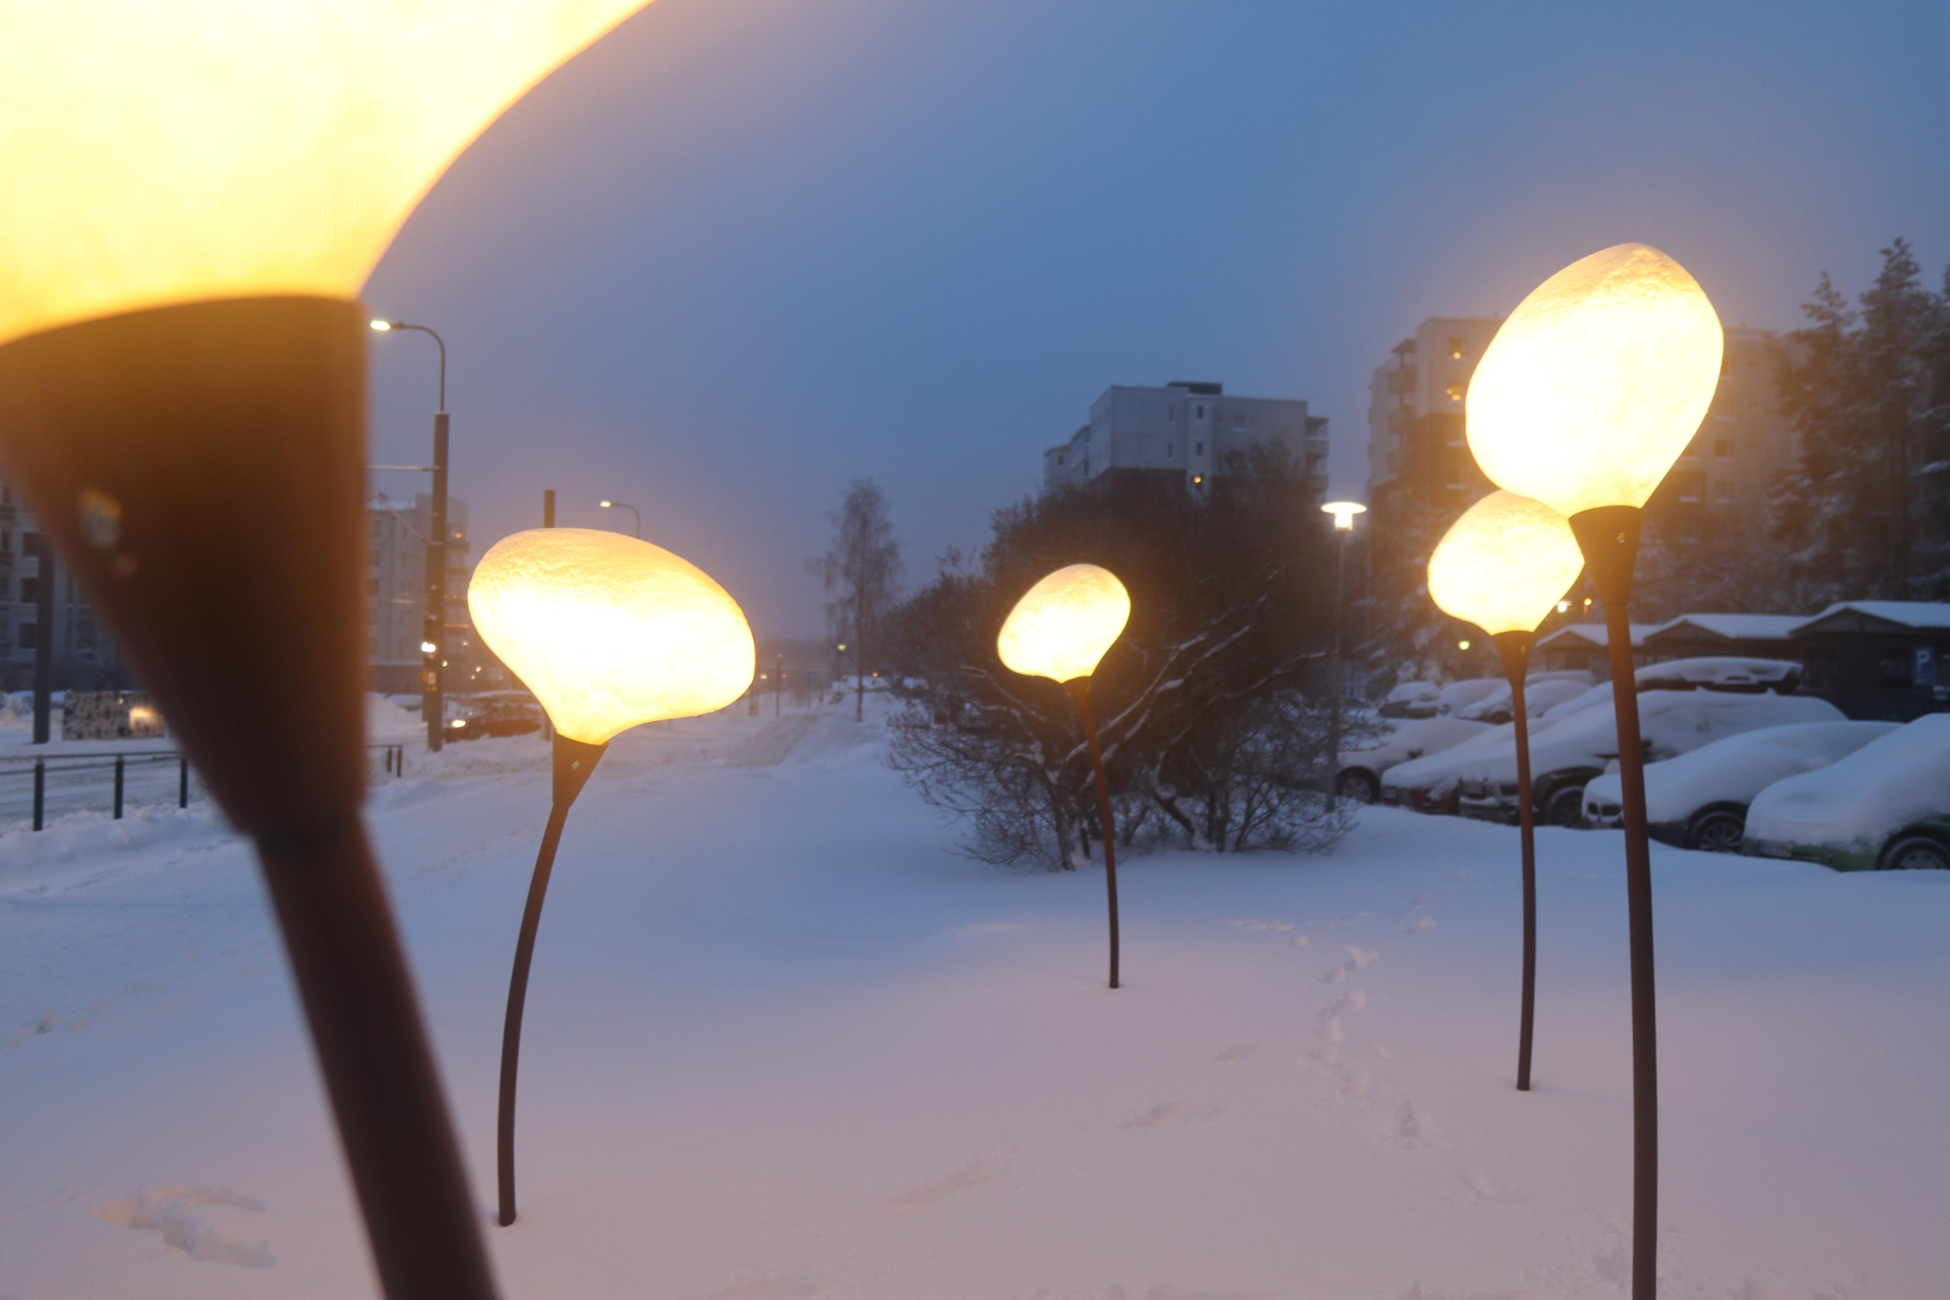
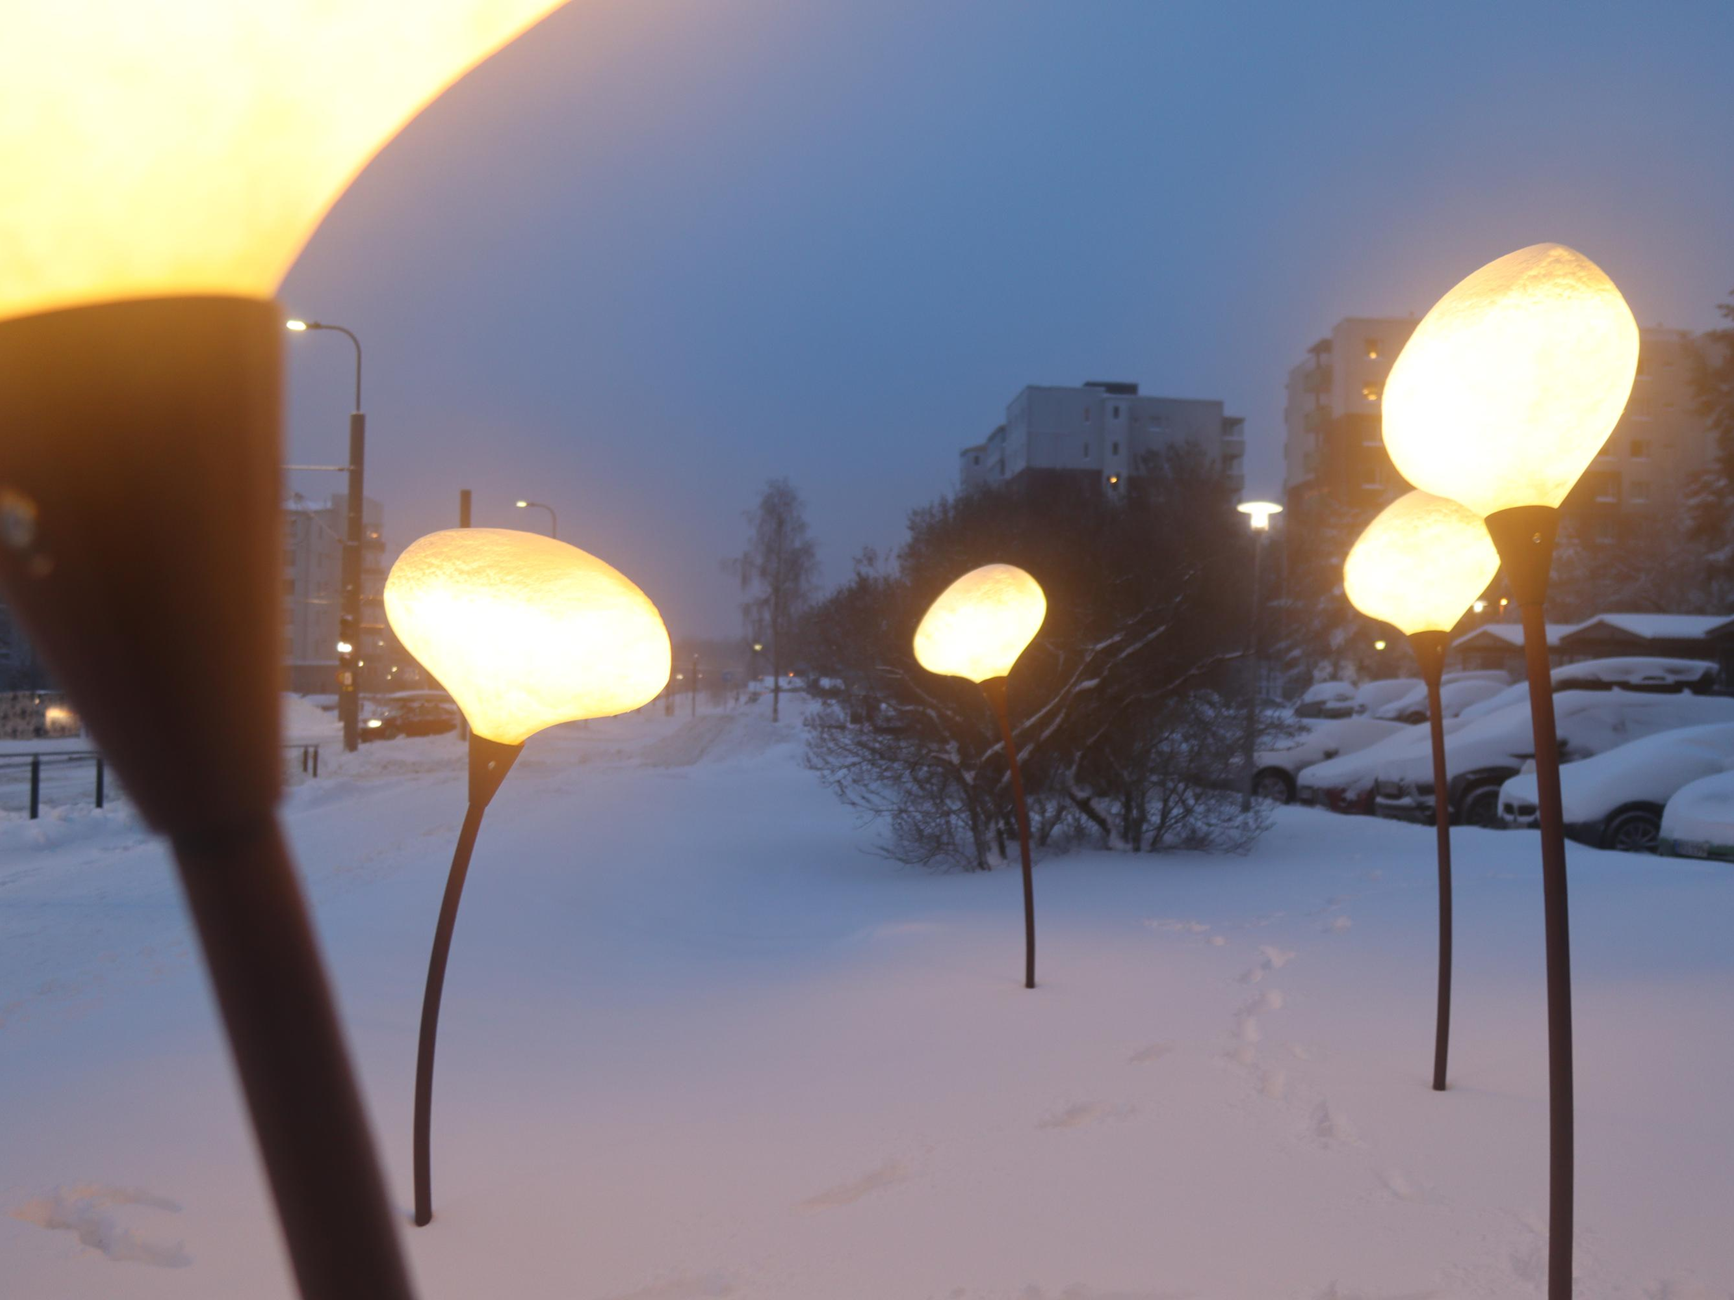
add mm football project

diff --git a/content/mm-kisatTeksti.md b/content/mm-kisatTeksti.md
@@ -1,0 +1,7 @@
+Jalkapallon MM-kisoja esittelevässä näyttelyssä perehdyttiin lajin tähtiin, tapahtumiin ja tarinoihin kisahistoriasta. Kuvat, videot, pokaalit, pelipaidat ja pallot muistuttivat kisojen sankareista ja klassikkopeleistä. Syvemmällä tasolla perehdyttiin, miten MM-turnaus syntyi ja mitä ilmiöitä, ja maailman tapahtumia eri vuosien kisat ovat heijastelleet.
+
+Näyttely toteutettiin kansainvälisenä yhteistyönä. Pääosa esineistöstä tuli lainaan FIFA-museosta Zürichistä ja Rooman kansainvälisestä jalkapallomuseosta. Suomalaiseen jalkapalloon liittyviä esineitä lainasivat Urheilumuseo Tahto, Postimuseo sekä yksityiset henkilöt.
+
+**Graafinen suunnittelu:** Kaarina Marttila
+
+**Käsikirjoitus, näyttelyrakentaminen ja valaistussuunnittelu:** [Museokeskus Vapriikki](www.vapriikki.fi)
